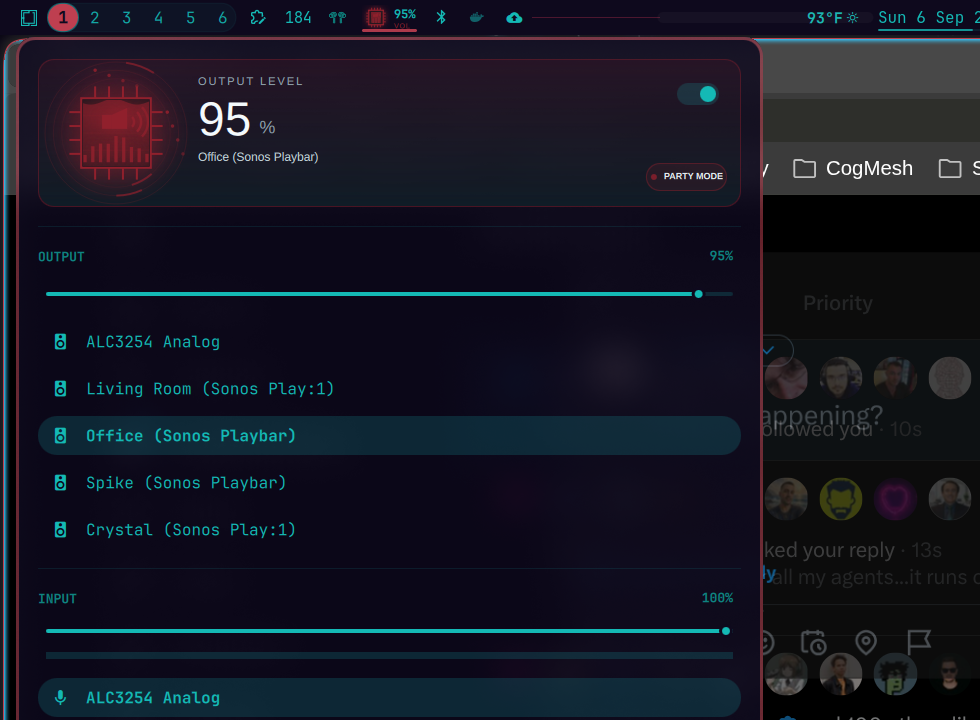
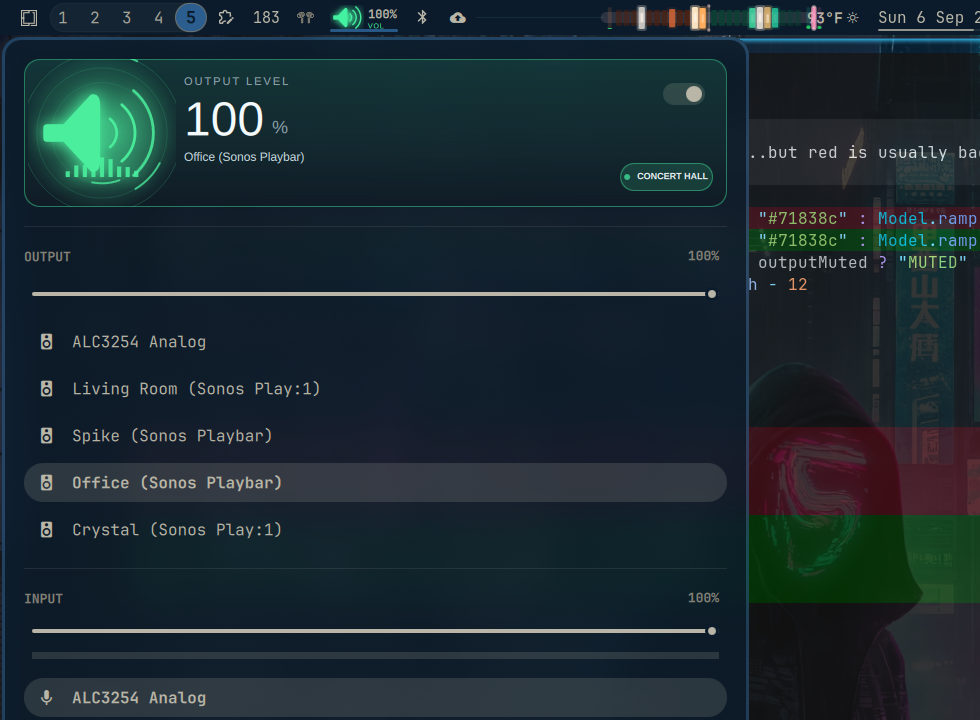
Make the audio mark a speaker and map loud to green
The bar icon was a processor die, so it read as another Pulse chip.
Draw a cone with sound arcs instead. Drive the Pulse ramp from
loudness so 100% volume is green, not red.

diff --git a/AudioChip.qml b/AudioChip.qml
@@ -1,22 +1,22 @@
 import QtQuick
 import "Model.js" as Model
 
-// A glowing audio die. The body fills like RAM Pulse, spectrum bars carry
-// the live level, and the inner mark switches for speakers, headphones, HDMI
-// or a wireless sink. Aura, orbit rings and pins match CPU Pulse and Net Pulse
-// so the chips read as siblings on the bar.
+// A speaker, not a processor die. Magnet and cone on the left, sound arcs
+// and a live waveform on the right. Headphones, HDMI and Bluetooth swap the
+// mark; mute slashes it. Colour still uses the Pulse ramp, but loudness
+// (not headroom) drives it from the panel.
 Item {
     id: root
     property string kind: 'speaker'   // 'speaker' | 'headphones' | 'hdmi' | 'bluetooth' | 'none'
     property real level: 0            // 0–1 output volume
-    property real activity: 0         // 0–1 peak or traffic, drives bar motion
+    property real activity: 0         // 0–1 peak, drives waveform motion
     property bool muted: false
     property bool animate: true
     property bool compact: false
     property color tint: "#43f2a1"
     property real phase: 0
     property real shownLevel: level
-    implicitWidth: compact ? 28 : 160
+    implicitWidth: compact ? 34 : 160
     implicitHeight: compact ? 25 : 160
     Behavior on shownLevel { NumberAnimation { duration: 1200; easing.type: Easing.InOutCubic } }
     Behavior on tint { ColorAnimation { duration: 1100 } }
@@ -36,93 +36,98 @@ Item {
         onPaint: {
             var c = getContext('2d'), w = width, h = height
             c.reset(); c.clearRect(0,0,w,h)
-            var cx=w/2, cy=h/2, size=Math.min(w,h), body=size*(root.compact?0.58:0.47)
-            if (size <= 0 || body <= 0) return
-            var x=cx-body/2, y=cy-body/2, t=root.phase*Math.PI*2
+            if (w <= 0 || h <= 0) return
+            var cx=w/2, cy=h/2, size=Math.min(w,h)
+            var t=root.phase*Math.PI*2
             var lvl=Model.clamp(root.shownLevel,0,1)
             var act=Model.clamp(root.muted ? 0 : root.activity,0,1)
             var live=root.muted ? 0 : lvl
-            var aura=c.createRadialGradient(cx,cy,body*0.1,cx,cy,size*0.5)
-            aura.addColorStop(0,Qt.alpha(root.tint,0.30+0.25*live)); aura.addColorStop(0.6,Qt.alpha(root.tint,0.20+0.07*Math.sin(t))); aura.addColorStop(1,'transparent')
+            var aura=c.createRadialGradient(cx,cy,size*0.08,cx,cy,size*0.55)
+            aura.addColorStop(0,Qt.alpha(root.tint,0.38+0.28*live)); aura.addColorStop(0.62,Qt.alpha(root.tint,0.16+0.08*Math.sin(t))); aura.addColorStop(1,'transparent')
             c.fillStyle=aura; c.fillRect(0,0,w,h)
             if (!root.compact) {
                 for(var ring=0;ring<3;ring++) {
-                    c.beginPath(); c.strokeStyle=Qt.alpha(root.tint,0.11+ring*0.04); c.lineWidth=1
-                    c.arc(cx,cy,body*(0.78+ring*0.12),0,Math.PI*2); c.stroke()
-                    c.beginPath(); c.strokeStyle=Qt.alpha(root.tint,0.65); c.lineWidth=2
-                    var ang=t*(1+act*2)*(ring%2===0?1:-1)+ring*2
-                    c.arc(cx,cy,body*(0.78+ring*0.12),ang,ang+0.42);c.stroke()
+                    var rad=size*(0.34+ring*0.10)
+                    c.beginPath(); c.strokeStyle=Qt.alpha(root.tint,0.10+ring*0.04); c.lineWidth=1
+                    c.arc(cx,cy,rad,0,Math.PI*2); c.stroke()
+                    c.beginPath(); c.strokeStyle=Qt.alpha(root.tint,0.55+0.2*live); c.lineWidth=2; c.lineCap='round'
+                    var ang=t*(1+act*2)*(ring%2===0?1:-1)+ring*1.7
+                    c.arc(cx,cy,rad,ang,ang+0.55);c.stroke()
                 }
             }
-            c.fillStyle='#0b141b'; c.strokeStyle=root.tint; c.lineWidth=root.compact?1.2:2
-            c.fillRect(x,y,body,body)
-            c.shadowColor=root.tint; c.shadowBlur=root.compact?5:12
-            c.strokeRect(x,y,body,body); c.shadowBlur=0
-            c.save();c.beginPath();c.rect(x+2,y+2,body-4,body-4);c.clip()
-            c.strokeStyle=Qt.alpha(root.tint,0.18);c.lineWidth=0.8
-            for(var row=1;row<4;row++){ c.beginPath();c.moveTo(x,y+body*row/4);c.lineTo(x+body,y+body*row/4);c.stroke() }
-            var fillY=y+body*(1-live)
-            var liquid=c.createLinearGradient(0,y,0,y+body)
-            liquid.addColorStop(0,Qt.alpha(root.tint,0.65)); liquid.addColorStop(1,Qt.alpha(root.tint,0.16))
-            c.beginPath();c.moveTo(x,y+body);c.lineTo(x,fillY)
-            for(var px=0;px<=body;px+=2) c.lineTo(x+px,fillY+Math.sin(px/body*Math.PI*3+t)*(root.compact?1:3)*(0.4+0.6*act))
-            c.lineTo(x+body,y+body);c.closePath();c.fillStyle=liquid;c.fill()
-            var bars=root.compact?5:9, barW=body/(bars*2.4), base=y+body*0.92
-            for(var i=0;i<bars;i++){
-                var envelope=Math.sin(Math.PI*(i+1)/(bars+1))
-                var wobble=root.animate?0.62+0.38*Math.abs(Math.sin(t*(1.4+act)+i*0.9)):1
-                var bh=body*(root.compact?0.55:0.42)*live*envelope*wobble*(0.55+0.45*act)
-                var bx=x+body*(i+0.5)/bars
-                c.fillStyle=Qt.alpha(root.tint,0.35+0.55*live)
-                c.fillRect(bx-barW/2,base-bh,barW,Math.max(root.compact?1:2,bh))
-            }
-            c.strokeStyle=root.tint;c.fillStyle=root.tint;c.lineWidth=root.compact?1.1:2
+            var s=size*(root.compact?0.92:0.62)
             if (root.kind === 'headphones') {
-                c.beginPath();c.arc(cx,cy-body*0.04,body*0.22,Math.PI*1.12,Math.PI*1.88);c.stroke()
-                var cupW=body*(root.compact?0.12:0.10), cupH=body*(root.compact?0.22:0.24)
-                c.fillRect(cx-body*0.28,cy-body*0.04,cupW,cupH)
-                c.fillRect(cx+body*0.28-cupW,cy-body*0.04,cupW,cupH)
-            } else if (root.kind === 'hdmi') {
-                var dw=body*0.46, dh=body*0.28, dx=cx-dw/2, dy=cy-body*0.22
-                c.strokeRect(dx,dy,dw,dh)
-                c.beginPath();c.moveTo(cx-body*0.06,dy+dh);c.lineTo(cx+body*0.06,dy+dh);c.lineTo(cx+body*0.10,dy+dh+body*0.08);c.lineTo(cx-body*0.10,dy+dh+body*0.08);c.closePath();c.fill()
-            } else if (root.kind === 'none') {
-                c.lineWidth=root.compact?1.2:2.5;c.setLineDash([body*0.08,body*0.08])
-                c.beginPath();c.arc(cx,cy-body*0.08,body*0.22,0,Math.PI*2);c.stroke();c.setLineDash([])
-            } else {
-                // Speaker cone, with extra wireless arcs on a Bluetooth sink.
-                var mx=cx-body*0.20, my=cy-body*(root.compact?0.22:0.26)
-                var mw=body*0.14, mh=body*(root.compact?0.18:0.20)
-                c.fillRect(mx,my,mw,mh)
-                c.beginPath()
-                c.moveTo(mx+mw,my)
-                c.lineTo(cx+body*0.16,cy-body*(root.compact?0.32:0.36))
-                c.lineTo(cx+body*0.16,cy-body*(root.compact?0.06:0.06))
-                c.lineTo(mx+mw,my+mh)
-                c.closePath();c.fill()
-                var arcs=root.kind==='bluetooth'?4:3
+                c.strokeStyle=root.tint; c.fillStyle=root.tint; c.lineWidth=root.compact?1.8:3.2; c.lineCap='round'
+                c.shadowColor=root.tint; c.shadowBlur=root.compact?5:12
+                c.beginPath(); c.arc(cx, cy-s*0.06, s*0.34, Math.PI*1.12, Math.PI*1.88); c.stroke()
+                var cupW=s*(root.compact?0.16:0.14), cupH=s*(root.compact?0.34:0.32)
+                c.fillRect(cx-s*0.38, cy-s*0.02, cupW, cupH)
+                c.fillRect(cx+s*0.38-cupW, cy-s*0.02, cupW, cupH)
+                c.shadowBlur=0
+                var arcs=3
                 for(var a=1;a<=arcs;a++){
-                    var lit=live*arcs>=a-0.5, pulse=(a===Math.min(arcs,Math.max(1,Math.ceil(live*arcs))))?0.65+0.35*Math.sin(t*2):1
-                    c.beginPath();c.strokeStyle=Qt.alpha(root.tint,lit?0.9*pulse:0.16);c.lineWidth=(root.compact?1.1:2.4)*(lit?1:0.7)
-                    c.arc(cx+body*0.16,cy-body*0.16,body*0.10*a,-0.78,0.78);c.stroke()
+                    var lit=live*arcs>=a-0.35, pulse=(lit && a===Math.min(arcs,Math.max(1,Math.ceil(live*arcs))))?0.65+0.35*Math.sin(t*2):1
+                    c.beginPath(); c.strokeStyle=Qt.alpha(root.tint,lit?0.9*pulse:0.16); c.lineWidth=(root.compact?1.2:2.2)*(lit?1:0.7); c.lineCap='round'
+                    c.arc(cx, cy+s*0.08, s*0.18*a, 0.15, Math.PI-0.15); c.stroke()
+                }
+            } else if (root.kind === 'hdmi') {
+                var dw=s*0.46, dh=s*0.30, dx=cx-dw/2, dy=cy-s*0.28
+                c.strokeStyle=root.tint; c.fillStyle=root.tint; c.lineWidth=root.compact?1.4:2.4
+                c.shadowColor=root.tint; c.shadowBlur=root.compact?5:12
+                c.strokeRect(dx,dy,dw,dh)
+                c.beginPath(); c.moveTo(cx-s*0.07,dy+dh); c.lineTo(cx+s*0.07,dy+dh); c.lineTo(cx+s*0.12,dy+dh+s*0.10); c.lineTo(cx-s*0.12,dy+dh+s*0.10); c.closePath(); c.fill()
+                c.shadowBlur=0
+                var bars=root.compact?4:7, barW=s/(bars*3.2), base=cy+s*0.42
+                for(var i=0;i<bars;i++){
+                    var envelope=Math.sin(Math.PI*(i+1)/(bars+1))
+                    var wobble=root.animate?0.62+0.38*Math.abs(Math.sin(t*(1.4+act)+i*0.9)):1
+                    var bh=s*0.28*live*envelope*wobble*(0.55+0.45*act)
+                    var bx=cx-s*0.28+s*0.56*(i+0.5)/bars
+                    c.fillStyle=Qt.alpha(root.tint,0.35+0.55*live)
+                    c.fillRect(bx-barW/2,base-bh,barW,Math.max(root.compact?1.5:2.5,bh))
+                }
+            } else if (root.kind === 'none') {
+                c.strokeStyle=Qt.alpha(root.tint,0.75); c.lineWidth=root.compact?1.4:2.6; c.setLineDash([s*0.08,s*0.08])
+                c.beginPath(); c.arc(cx,cy,s*0.28,0,Math.PI*2); c.stroke(); c.setLineDash([])
+            } else {
+                var ox=cx-(root.compact?s*0.08:s*0.12), oy=cy
+                var magW=s*0.18, magH=s*0.30, magX=ox-s*0.48, magY=oy-magH/2
+                c.fillStyle=root.tint; c.shadowColor=root.tint; c.shadowBlur=root.muted?0:(root.compact?6:14)
+                c.beginPath()
+                c.moveTo(magX, magY+magH*0.18)
+                c.quadraticCurveTo(magX-s*0.04, magY+magH*0.18, magX-s*0.04, magY+magH*0.32)
+                c.lineTo(magX-s*0.04, magY+magH*0.68)
+                c.quadraticCurveTo(magX-s*0.04, magY+magH*0.82, magX, magY+magH*0.82)
+                c.lineTo(magX+magW, magY+magH*0.82)
+                c.lineTo(ox, oy+s*0.42)
+                c.quadraticCurveTo(ox+s*0.10, oy+s*0.44, ox+s*0.10, oy+s*0.30)
+                c.lineTo(ox+s*0.10, oy-s*0.30)
+                c.quadraticCurveTo(ox+s*0.10, oy-s*0.44, ox, oy-s*0.42)
+                c.lineTo(magX+magW, magY+magH*0.18)
+                c.closePath()
+                c.fill()
+                c.shadowBlur=0
+                var extra=root.kind==='bluetooth'?4:3
+                for(var a=1;a<=extra;a++){
+                    var lit=live*extra>=a-0.35, pulse=(lit && a===Math.min(extra,Math.max(1,Math.ceil(live*extra))))?0.65+0.35*Math.sin(t*2):1
+                    c.beginPath(); c.strokeStyle=Qt.alpha(root.tint,lit?0.95*pulse:0.16); c.lineWidth=(root.compact?1.5:2.8)*(lit?1:0.7); c.lineCap='round'
+                    c.arc(ox+s*0.08, oy, s*0.20*a, -0.88, 0.88); c.stroke()
+                }
+            }
+            if (!root.compact && root.kind !== 'headphones' && root.kind !== 'none') {
+                var bars=9, barW=s/22, base=cy+s*0.48, left=cx-s*0.42
+                for(var i=0;i<bars;i++){
+                    var envelope=Math.sin(Math.PI*(i+1)/(bars+1))
+                    var wobble=root.animate?0.58+0.42*Math.abs(Math.sin(t*(1.5+act)+i*0.85)):1
+                    var bh=s*0.22*live*envelope*wobble*(0.5+0.5*act)
+                    var bx=left+s*0.84*(i+0.5)/bars
+                    c.fillStyle=Qt.alpha(root.tint,0.30+0.60*live)
+                    c.fillRect(bx-barW/2,base-bh,barW,Math.max(2,bh))
                 }
             }
             if (root.muted || root.kind === 'none') {
-                c.strokeStyle=Qt.alpha(root.tint,0.9);c.lineWidth=root.compact?1.4:2.6;c.lineCap='round'
-                c.beginPath();c.moveTo(x+body*0.18,y+body*0.18);c.lineTo(x+body*0.82,y+body*0.82);c.stroke()
-            }
-            c.restore()
-            c.strokeStyle=root.tint;c.lineWidth=root.compact?1:2
-            for(var p=0;p<4;p++) {
-                var q=body*(p+1)/5, len=body*0.17
-                c.beginPath();c.moveTo(x+q,y-len);c.lineTo(x+q,y);c.moveTo(x+q,y+body);c.lineTo(x+q,y+body+len)
-                c.moveTo(x-len,y+q);c.lineTo(x,y+q);c.moveTo(x+body,y+q);c.lineTo(x+body+len,y+q);c.stroke()
-                if(!root.compact && !root.muted && root.kind !== 'none'){
-                    var progress=((root.phase*(1+act*4))+p/4)%1
-                    c.fillStyle=Qt.alpha(root.tint,1-progress*0.5)
-                    c.beginPath();c.arc(x+q,y-len-body*0.3+progress*body*0.3,1.7,0,Math.PI*2);c.fill()
-                    c.beginPath();c.arc(x+body+len+progress*body*0.3,y+q,1.7,0,Math.PI*2);c.fill()
-                }
+                c.strokeStyle=Qt.alpha(root.tint,0.95); c.lineWidth=root.compact?2:3.2; c.lineCap='round'
+                c.beginPath(); c.moveTo(cx-s*0.32, cy-s*0.32); c.lineTo(cx+s*0.32, cy+s*0.32); c.stroke()
             }
         }
     }

diff --git a/Model.js b/Model.js
@@ -93,8 +93,8 @@ function hex2(n) {
   return (n < 16 ? "0" : "") + n.toString(16)
 }
 
-// Colour follows listening headroom: green at a whisper, yellow at half,
-// dark red at concert-hall. Same endpoints as RAM Pulse, CPU Pulse and Net Pulse.
+// Same Pulse endpoints: dark red → yellow → green. Audio maps loudness
+// onto that ramp, so 100% volume is green (alive), not red (danger).
 // Returns a #rrggbb string so this file does not depend on Qt.rgba.
 function ramp(percent) {
   var f = clamp(percent, 0, 100) / 100
@@ -104,9 +104,9 @@ function ramp(percent) {
   return "#" + hex2(a[0]+(b[0]-a[0])*t) + hex2(a[1]+(b[1]-a[1])*t) + hex2(a[2]+(b[2]-a[2])*t)
 }
 
-function headroom(volume, muted) {
+function loudness(volume, muted) {
   if (muted) return 0
-  return clamp((1 - clamp(volume, 0, 1)) * 100, 0, 100)
+  return clamp(clamp(volume, 0, 1) * 100, 0, 100)
 }
 
 function volumeReadout(volume) {
@@ -305,7 +305,7 @@ if (typeof module !== "undefined") {
     clamp: clamp,
     hex2: hex2,
     ramp: ramp,
-    headroom: headroom,
+    loudness: loudness,
     volumeReadout: volumeReadout,
     barTag: barTag,
     deviceBlob: deviceBlob,

diff --git a/Panel.qml b/Panel.qml
@@ -183,7 +183,7 @@ Panel {
     if (!isFinite(peak) || peak < 0) peak = 0
     return Math.max(outputVolume, Math.min(1, peak))
   }
-  readonly property color tint: (!hasOutput || outputMuted) ? "#71838c" : Model.ramp(Model.headroom(outputVolume))
+  readonly property color tint: (!hasOutput || outputMuted) ? "#71838c" : Model.ramp(Model.loudness(outputVolume))
   readonly property string health: !hasOutput ? "NO OUTPUT" : outputMuted ? "MUTED" : outputVolumeName(outputVolume, false).toUpperCase()
   readonly property real openPanelIndicatorWidth: button.width - 12
 

diff --git a/README.md b/README.md
@@ -10,13 +10,13 @@
 
 # Audio Pulse
 
-An animated, glowing audio chip for the Omarchy top bar. Same die, same colour language, same pins as [RAM Pulse](https://github.com/nixfred/ram.plugin.omarchy), [CPU Pulse](https://github.com/nixfred/omacpu) and [Net Pulse](https://github.com/nixfred/omanet.plugin.omarchy). Green at a whisper → yellow at half → dark red at concert-hall. Muted is grey, with a slash through the die.
+An animated speaker for the Omarchy top bar. Same Pulse colour language as [RAM Pulse](https://github.com/nixfred/ram.plugin.omarchy), [CPU Pulse](https://github.com/nixfred/omacpu) and [Net Pulse](https://github.com/nixfred/omanet.plugin.omarchy), mapped to loudness: green at full volume, yellow at half, muted grey. 100% is alive, not an alarm.
 
 <p align="center">
-  <img src="docs/chip.png" alt="Compact Audio Pulse chip showing 95% VOL" width="280">
+  <img src="docs/chip.png" alt="Compact Audio Pulse speaker showing 100% VOL" width="280">
 </p>
 
-The inner mark follows the selected sink: speaker cone, headphone cups, HDMI display, or wireless arcs. Spectrum bars and a liquid fill track volume; pin packets run faster as the output peaks.
+The mark follows the selected sink: speaker cone, headphone cups, HDMI display, or extra wireless arcs. Sound rings and a waveform track volume.
 
 Left-click opens the mixer. Right-click mutes. Scroll changes volume. Everything else — output picker, input meter, per-app streams, keyboard cursor — is the stock audio panel, deliberately preserved.
 
@@ -42,6 +42,6 @@ Clone already replaces `omarchy.audio` in place. Disable the stock panel if both
 
 ## Files
 
-- `AudioChip.qml` — compact bar die and the 148px hero chip
+- `AudioChip.qml` — compact bar speaker and the 148px hero
 - `Panel.qml` — mixer, cloned from stock audio
-- `Model.js` — sink kind, headroom ramp, volume readout
+- `Model.js` — sink kind, loudness ramp, volume readout
